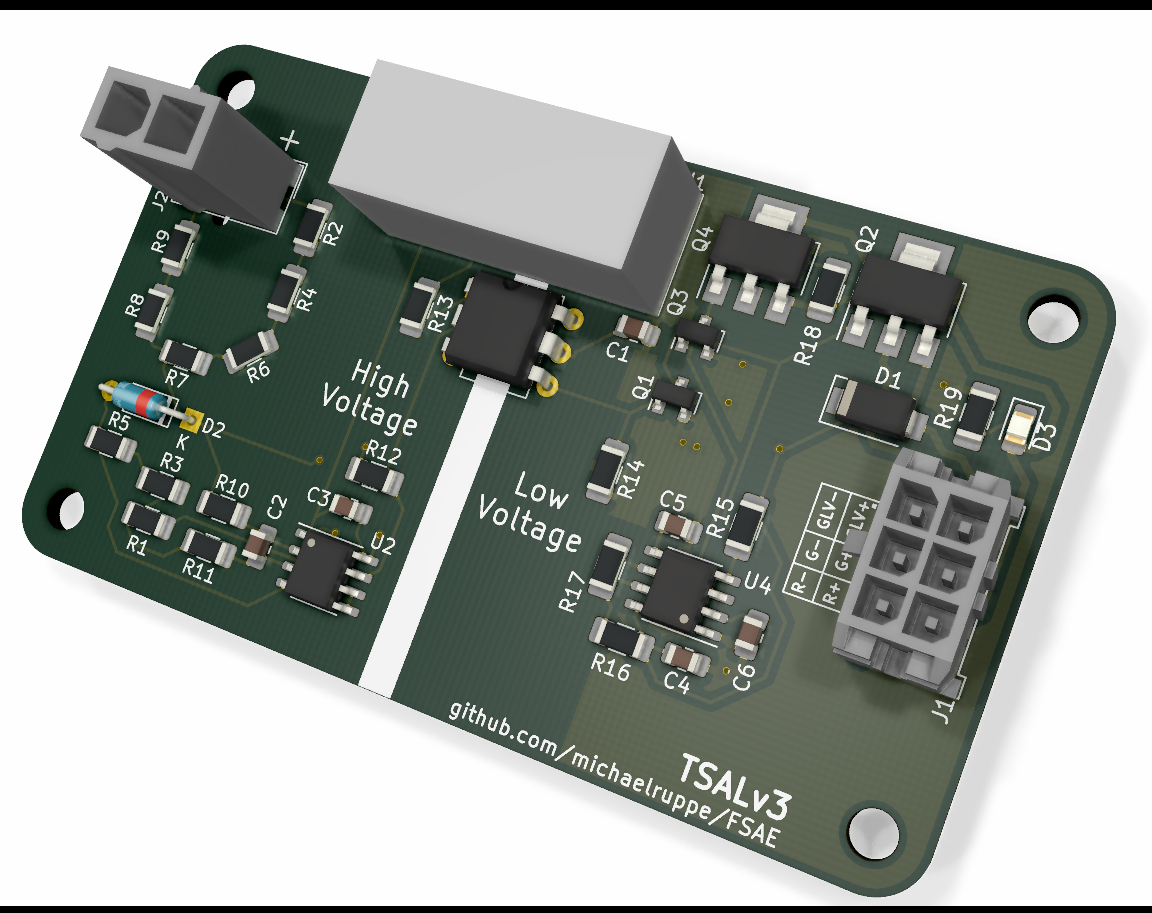
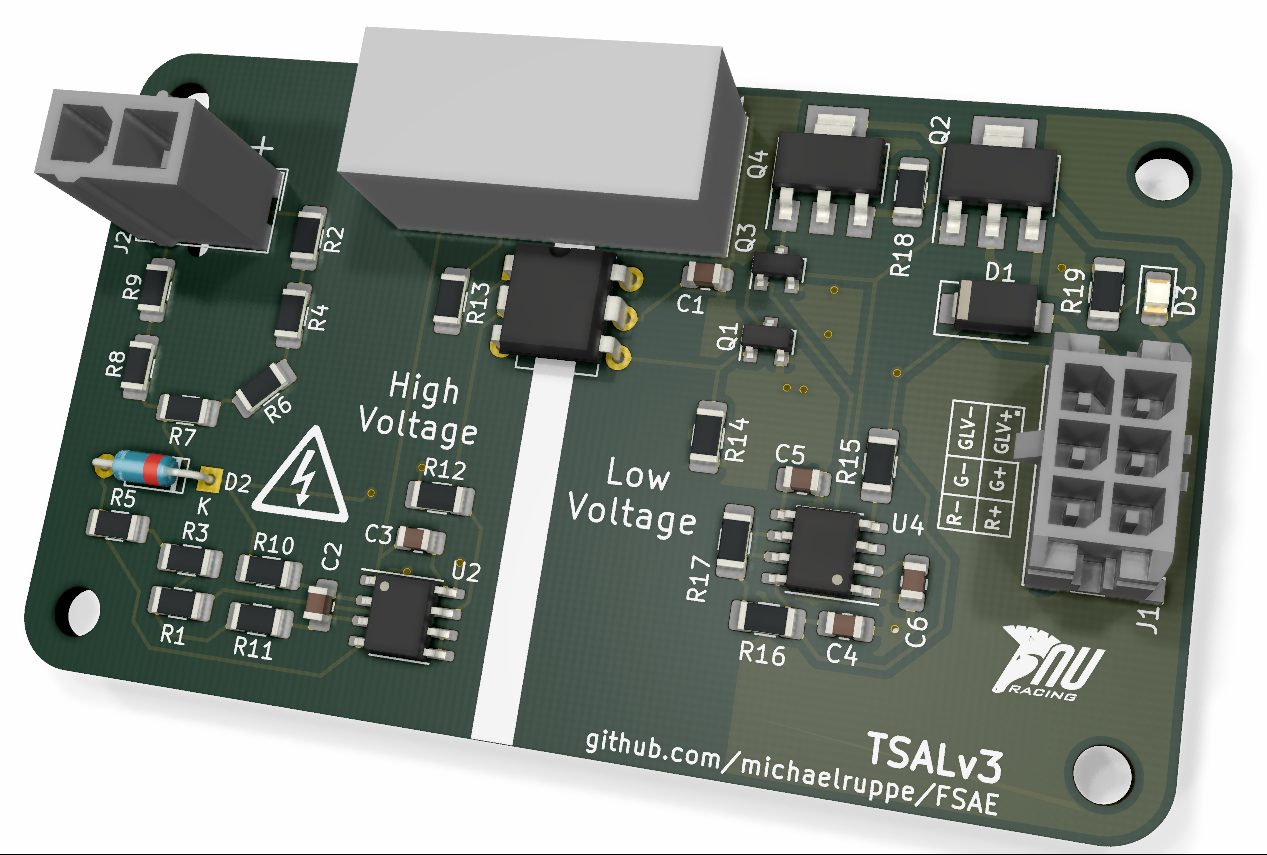
update render and readme

diff --git a/README.md b/README.md
@@ -2,9 +2,10 @@
 
 Hardware projects for the FSAE Electric 2019 competition.
 
- - TSAL: A light that indicates presence of dangerous voltage within the Tractive System
-  - HVM: Measures the TS voltage
-  - DRV: Gets voltage-status from HVM. Drives the TSAL. 
-  
+## TSAL
+---
+A light that indicates presence of dangerous voltage within the Tractive System
+
+![](TSALv3/render.png)
+
  - HFL: Hard Fault Latch. Latches faults that require a power-cycle of the car to clear.
- 
